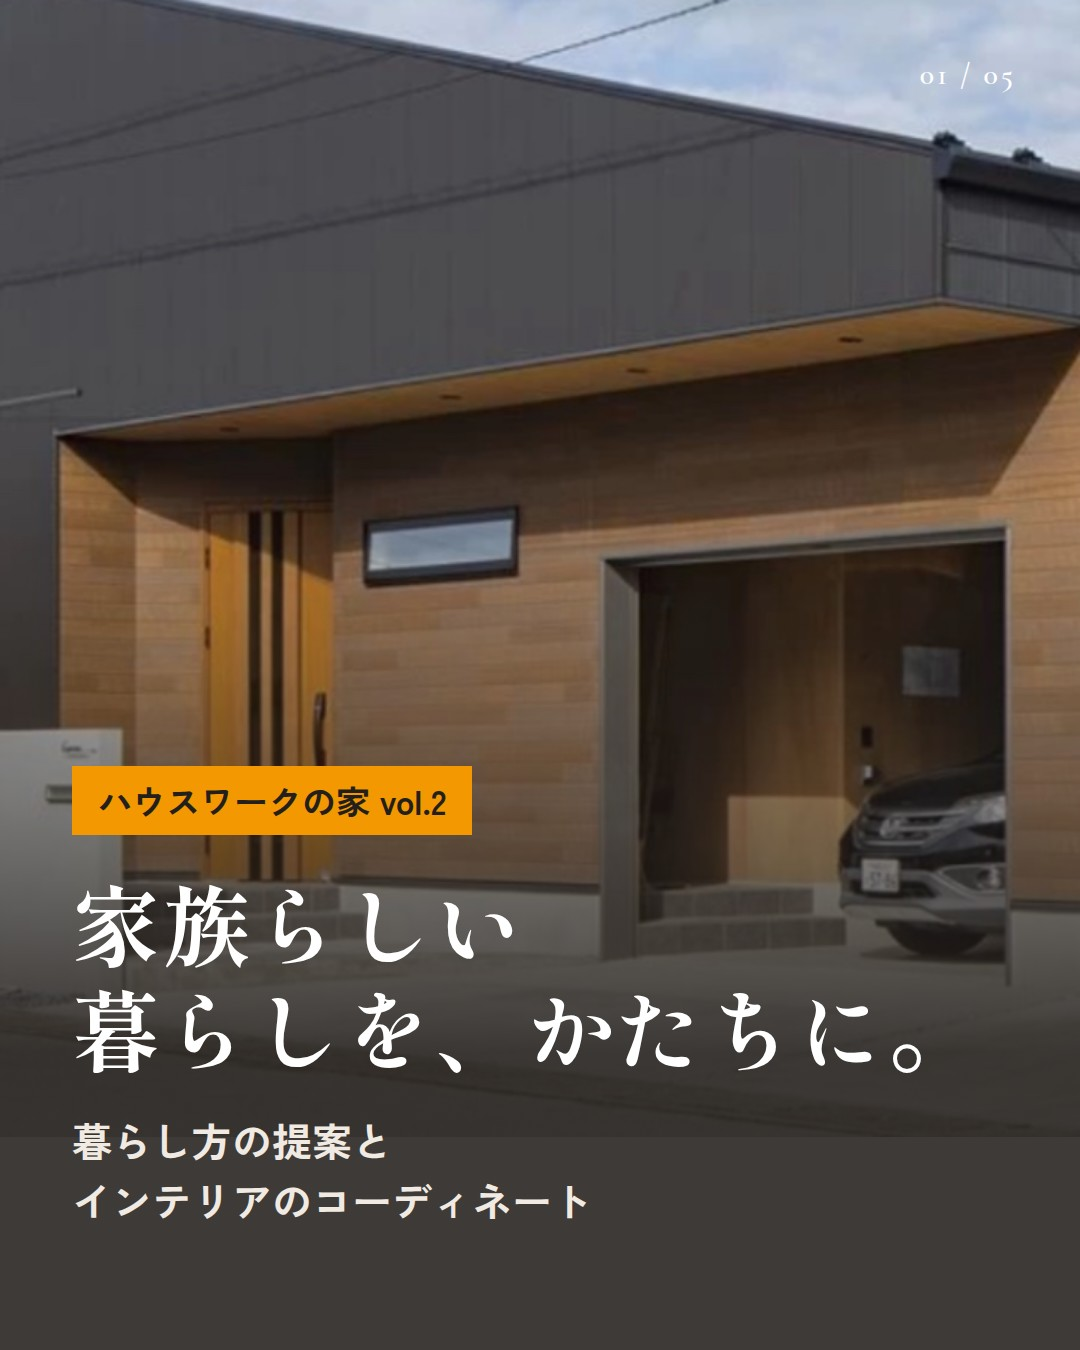
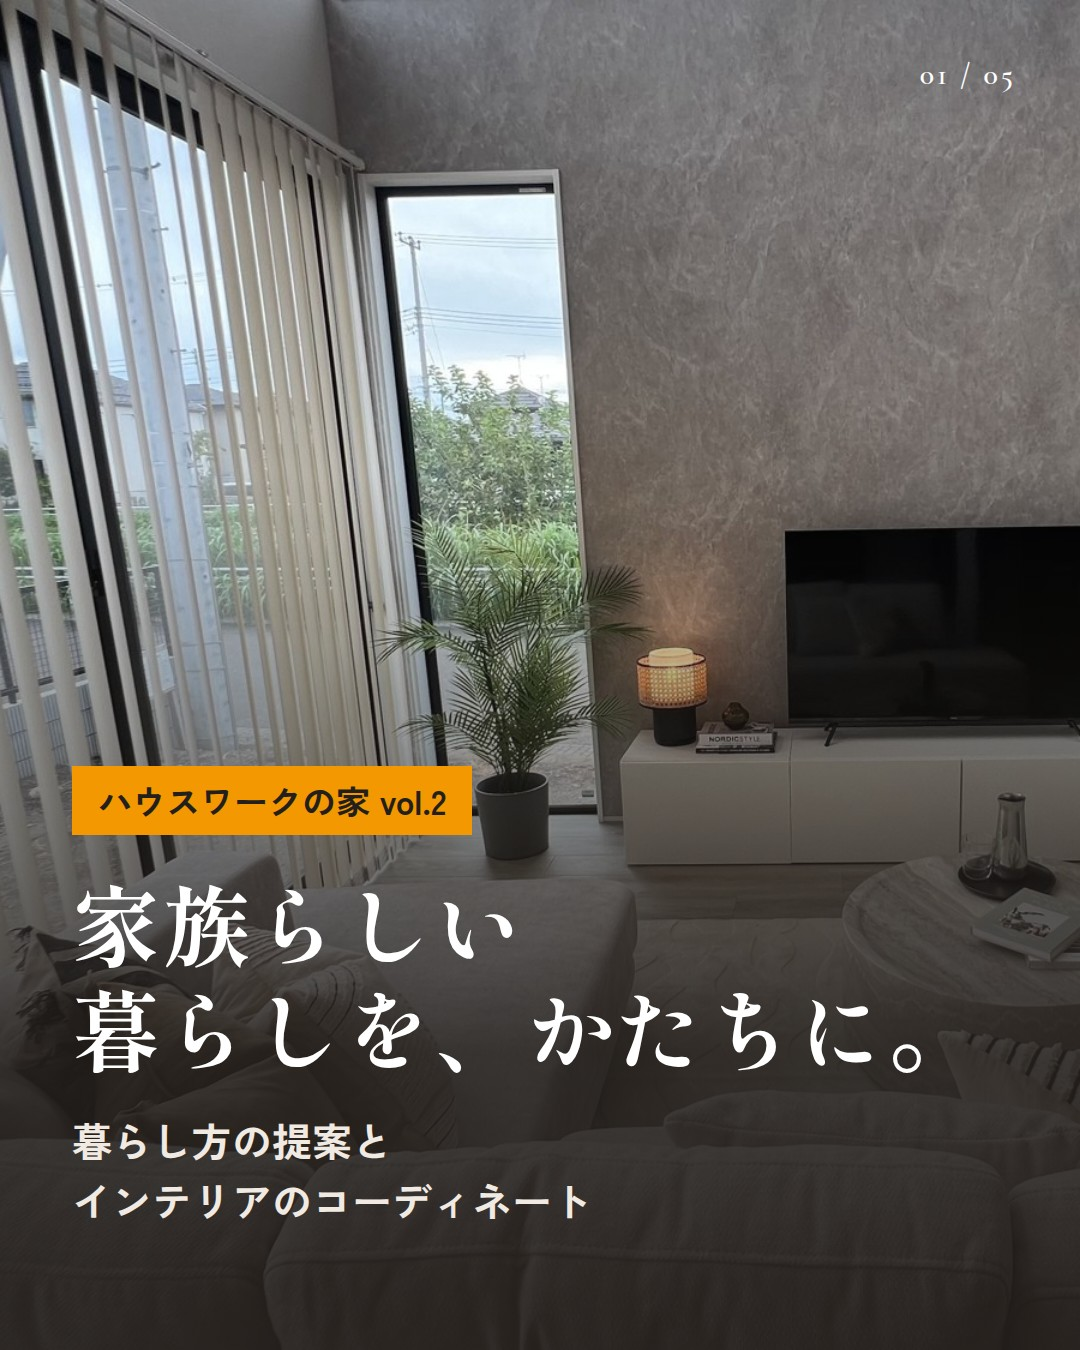
Use provided interior photos in Instagram vol.2 lifestyle post
Claude-Session: https://claude.ai/code/session_012B9C5ZEN3wmcNpkXGGwKaW

diff --git a/instagram/posts.html b/instagram/posts.html
@@ -97,6 +97,17 @@
   .cta .btn { display: inline-flex; align-items: center; gap: 18px; margin-top: 50px; background: var(--line-green); color: #fff;
               font-size: 42px; font-weight: 700; padding: 26px 60px; border-radius: 999px; }
   .cta .note { font-size: 30px; color: #CFC5B9; margin-top: 26px; }
+  /* 実写真のグリッド・サムネイル */
+  .pics div { background-size: cover; position: relative; }
+  .pics div:first-child { grid-row: span 2; }
+  .pics span { position: absolute; left: 0; bottom: 0; background: rgba(35,31,28,.82); color: #fff;
+               font-size: 30px; font-weight: 700; padding: 10px 22px; }
+  .point .thumb { background-size: cover; background-position: center; border: 4px solid #fff; }
+  .coord { padding-top: 600px; }
+  .coord .topphoto { position: absolute; top: 0; left: 0; right: 0; height: 540px;
+                     background-size: cover; background-position: center 62%; }
+  .coord .flow { margin-top: 40px; gap: 16px; }
+  .coord .flow div { font-size: 38px; padding: 22px 36px; }
 </style>
 </head>
 <body>
@@ -159,7 +170,7 @@
 
 <!-- ================= 投稿2：ハウスワークの家 vol.2 ================= -->
 <section class="slide cover" id="p2-1">
-  <div class="photo" style="background-size: 3000px auto; background-position: -300px -300px"></div><div class="shade"></div>
+  <div class="photo" style="background-image:url(photos/IMG_2827_3.jpg); background-size: cover; background-position: 30% center"></div><div class="shade"></div>
   <div class="no en">01 / 05</div>
   <div class="text">
     <span class="tag">ハウスワークの家 vol.2</span>
@@ -173,10 +184,10 @@
   <div class="no en">02 / 05</div>
   <div class="en">LIFESTYLE</div>
   <h2 class="mincho">暮らし方から考える<br>家づくり</h2>
-  <div class="grid2">
-    <div class="ph">写真差し替え<br>リビング</div>
-    <div class="ph">キッチン・<br>家事動線</div>
-    <div class="ph">収納・<br>ガレージ</div>
+  <div class="grid2 pics">
+    <div style="background-image:url(photos/IMG_2840_2.jpg); background-position: 40% center"><span>リビング</span></div>
+    <div style="background-image:url(photos/IMG_2838_3.jpg); background-position: 55% center"><span>キッチン・ダイニング</span></div>
+    <div style="background-image:url(photos/IMG_2874_5.jpg); background-position: center 60%"><span>寝室</span></div>
   </div>
 </section>
 
@@ -186,17 +197,17 @@
   <div class="en">LIFESTYLE</div>
   <h2 class="mincho">こんな暮らし、<br>できます</h2>
   <div class="points">
-    <div class="point"><div class="n">01</div><div><h3>家事がラクな動線</h3><p>キッチン・洗面・収納を<br>無理なくつなぐ間取り</p></div></div>
-    <div class="point"><div class="n">02</div><div><h3>趣味を楽しむ空間</h3><p>ガレージや書斎など<br>好きなことのための場所</p></div></div>
-    <div class="point"><div class="n">03</div><div><h3>家族が集まるLDK</h3><p>自然と顔を合わせる<br>心地よいつながり</p></div></div>
+    <div class="point"><div class="n thumb" style="background-image:url(photos/IMG_2838_3.jpg)"></div><div><h3>家事がラクな動線</h3><p>キッチンと収納を<br>無理なくつなぐ間取り</p></div></div>
+    <div class="point"><div class="n thumb" style="background-image:url(photos/IMG_2827_3.jpg)"></div><div><h3>家族が集まるLDK</h3><p>大きな窓から光が入る<br>心地よいくつろぎの場所</p></div></div>
+    <div class="point"><div class="n thumb" style="background-image:url(photos/IMG_2874_5.jpg)"></div><div><h3>ほっとする寝室</h3><p>落ち着いた色と素材で<br>一日の疲れをいやす空間</p></div></div>
   </div>
 </section>
 
-<section class="slide body" id="p2-4">
-  <img class="mark" src="../line-richmenu/assets/logo.webp" alt="">
-  <div class="no en">04 / 05</div>
+<section class="slide body coord" id="p2-4">
+  <div class="topphoto" style="background-image:url(photos/IMG_2845.jpg)"></div>
+  <div class="no en" style="color:#fff">04 / 05</div>
   <div class="en">COORDINATE</div>
-  <h2 class="mincho" style="font-size:64px">インテリアデザイナーが<br>コーディネートをサポート</h2>
+  <h2 class="mincho" style="font-size:60px">インテリアデザイナーが<br>コーディネートをサポート</h2>
   <div class="flow">
     <div><i>01</i>ご要望・暮らし方のヒアリング</div>
     <div><i>02</i>自由設計でプランニング</div>
